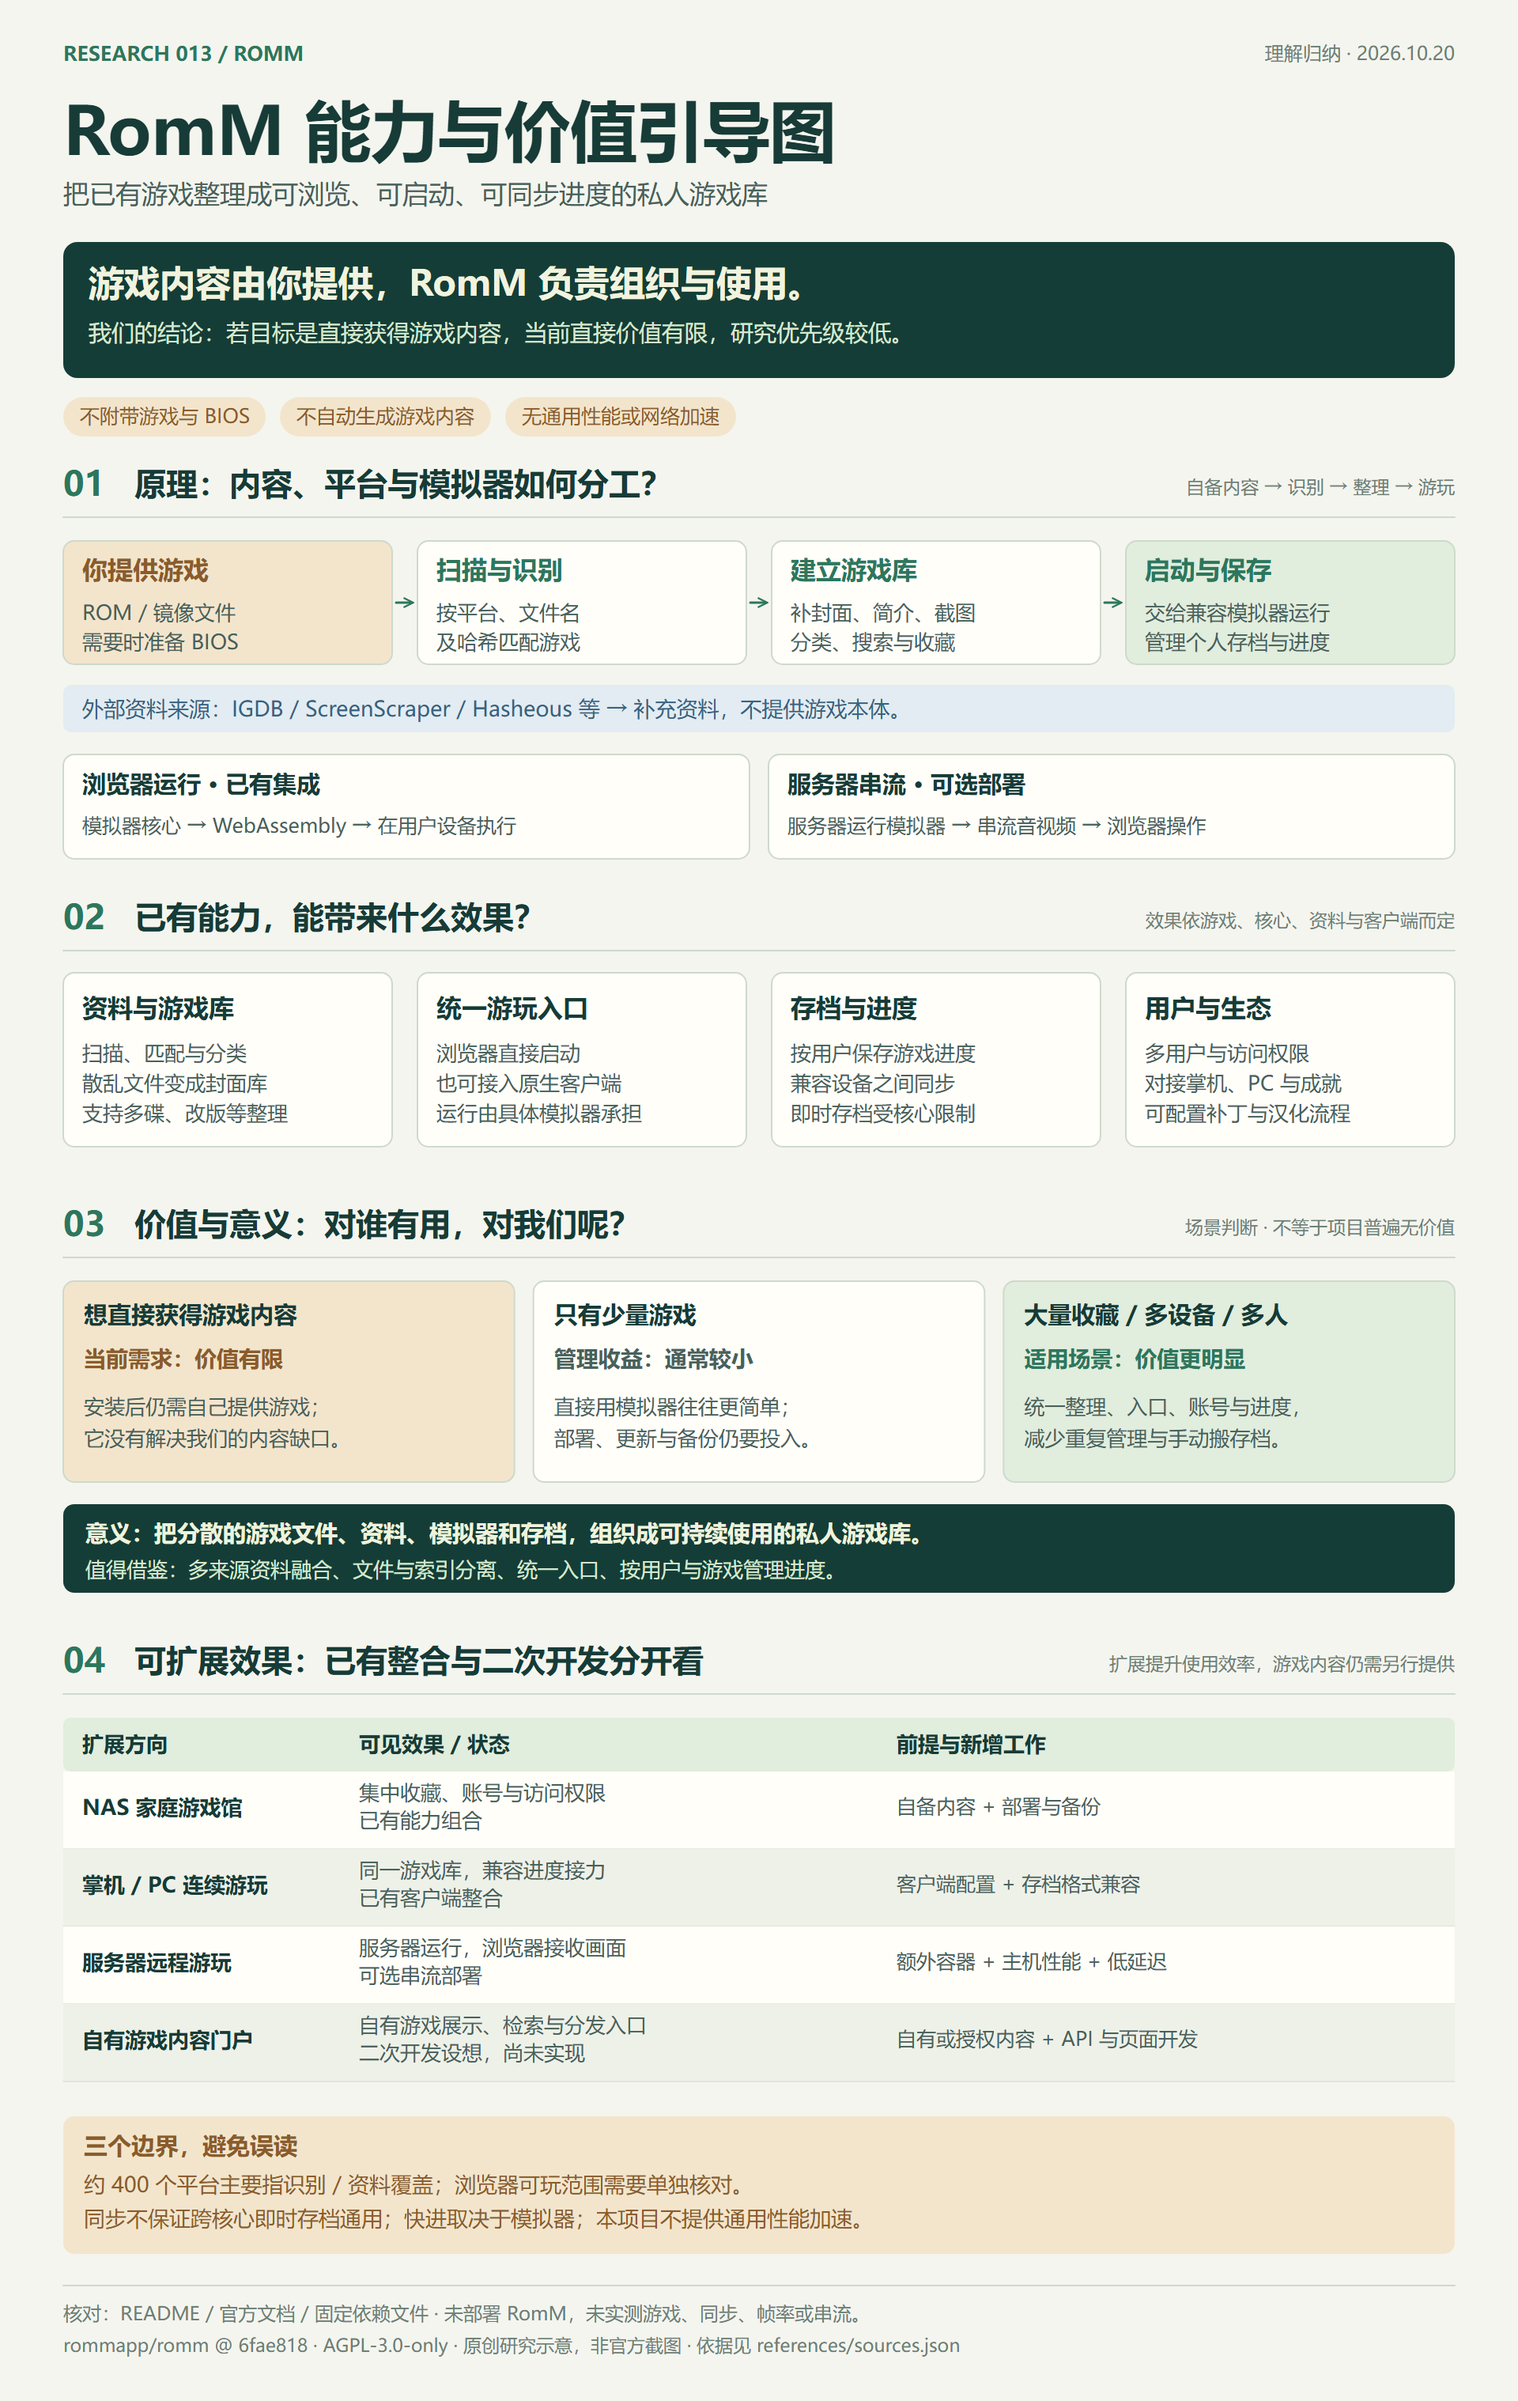
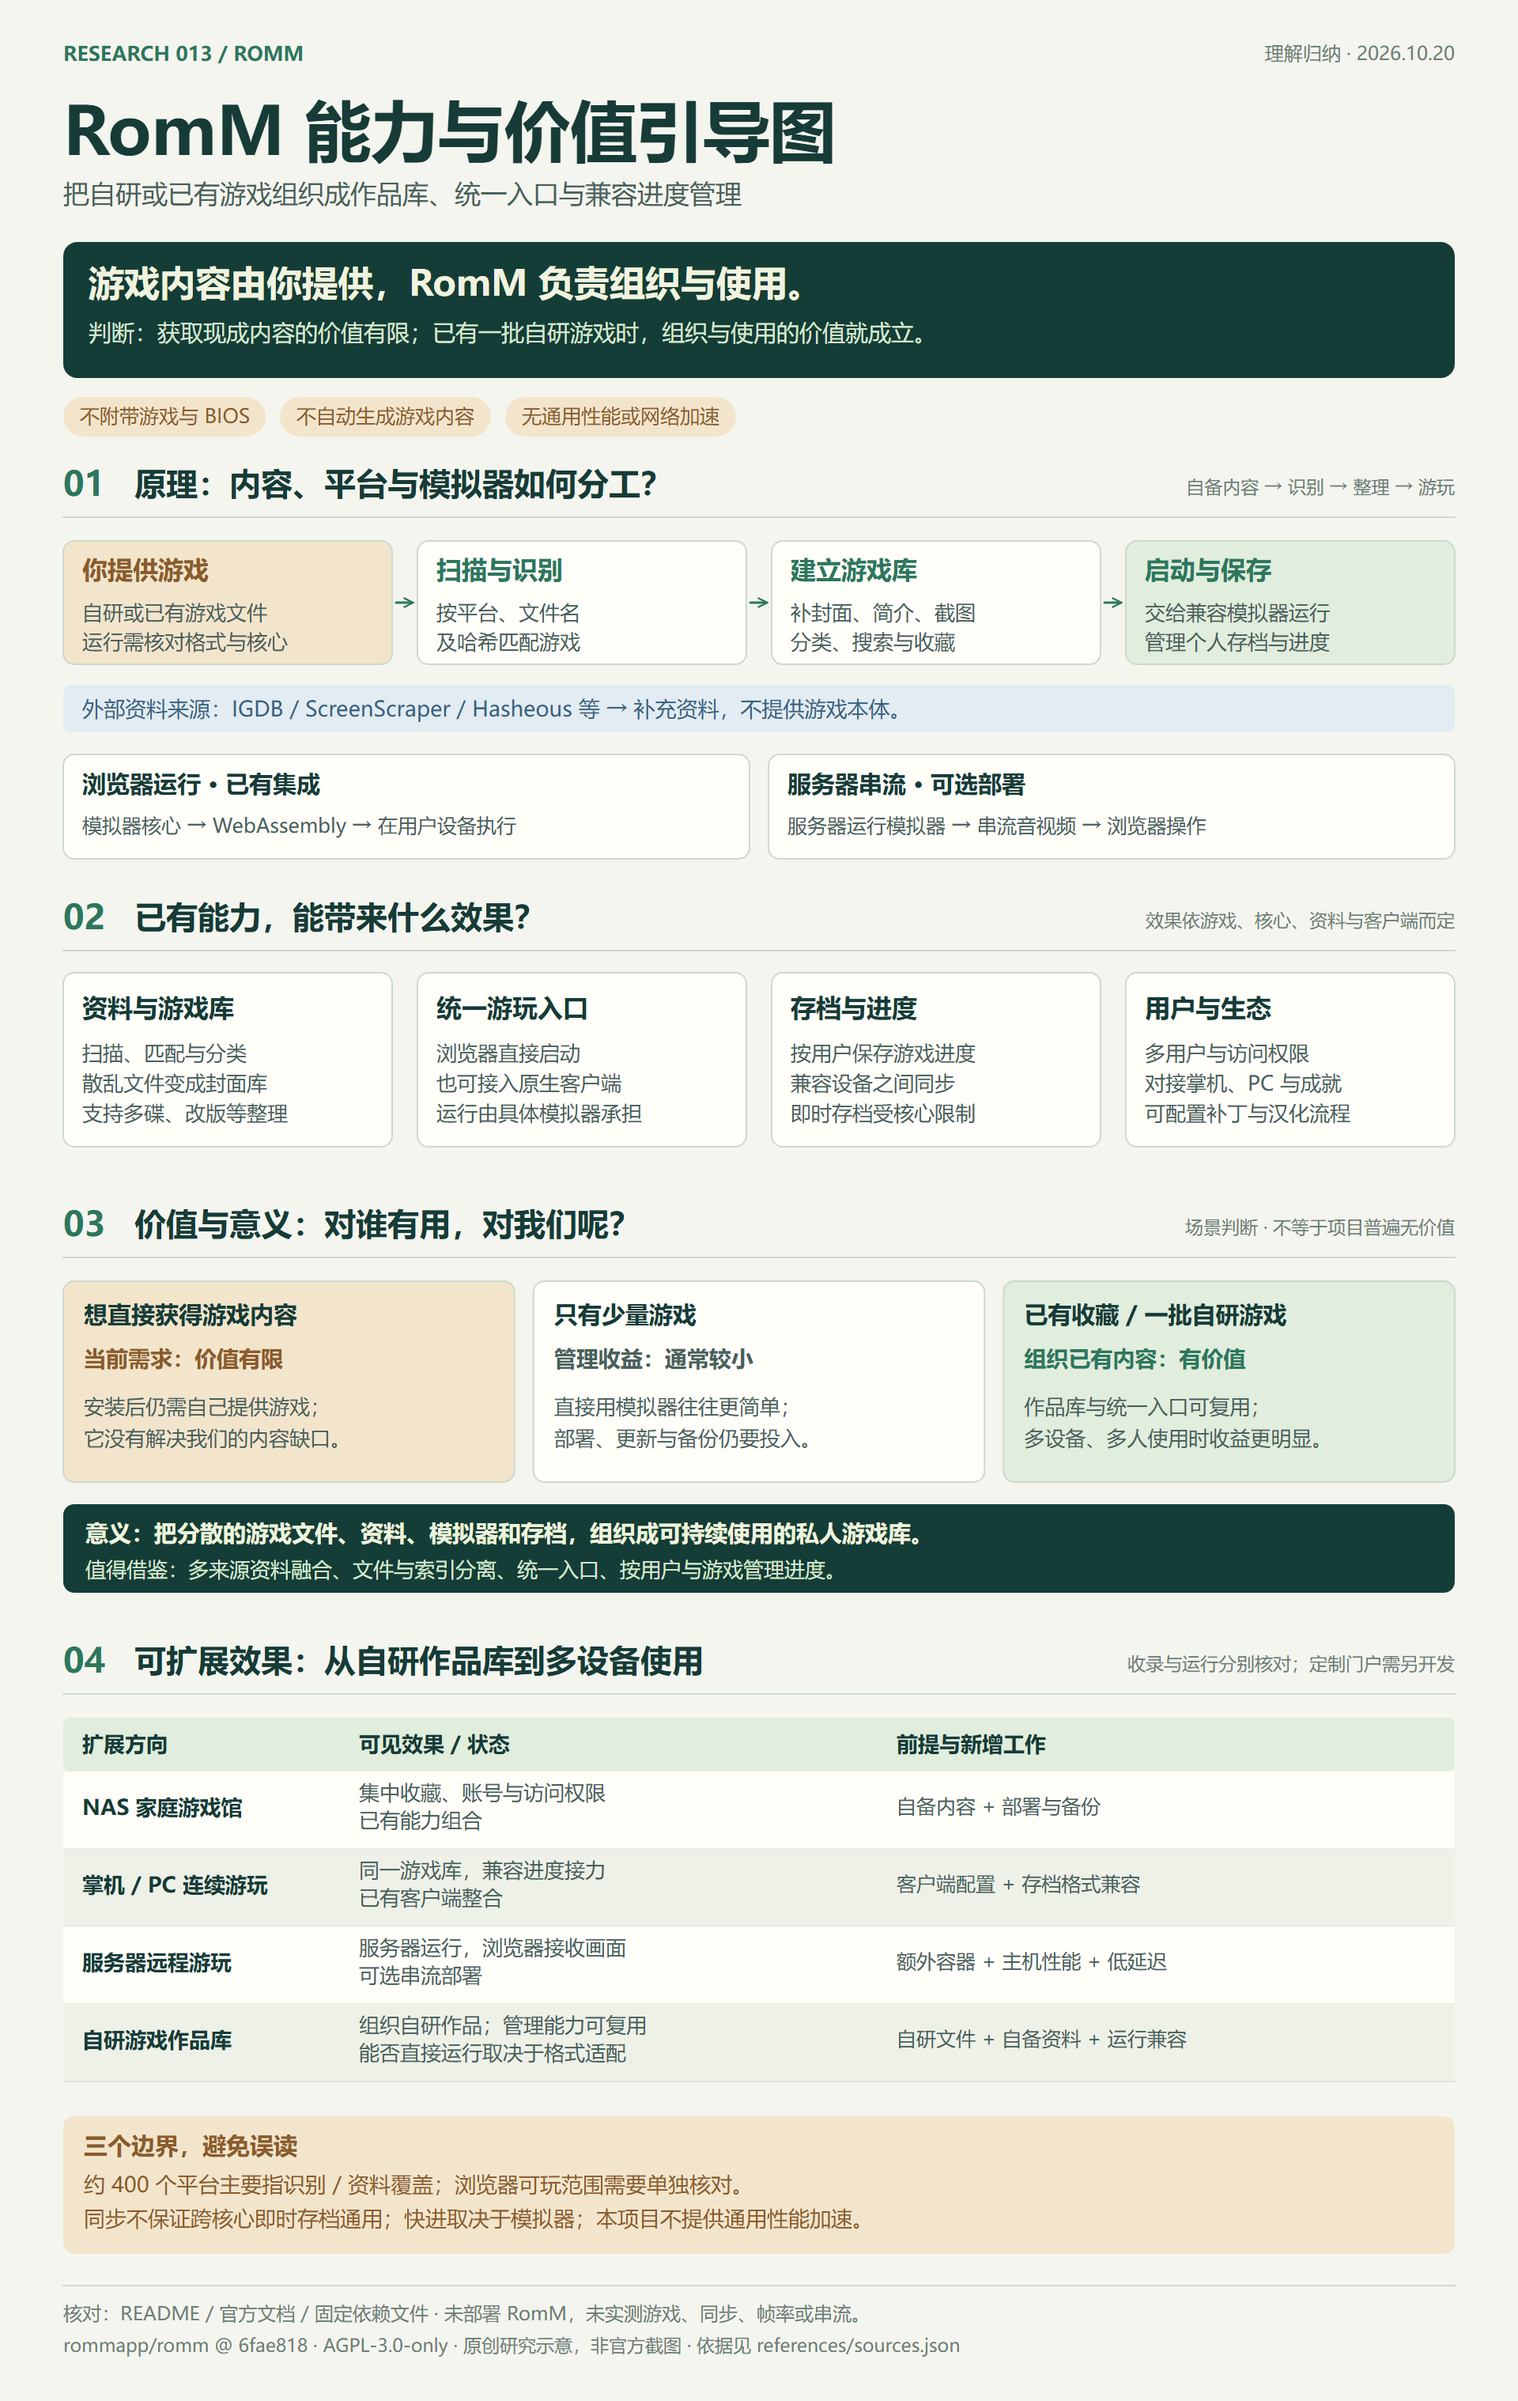
docs(romm): explain organizing self-developed games and runtime compatibility

diff --git a/projects/013-romm/tools/draw_guide.py b/projects/013-romm/tools/draw_guide.py
@@ -97,10 +97,10 @@ def draw():
     text(M, 52, "RESEARCH 013 / ROMM", 25, P["green"], True)
     text(W-M, 52, "理解归纳 · 2026.10.20", 24, P["muted"], anchor="end")
     text(M, 112, "RomM 能力与价值引导图", 84, P["ink"], True)
-    text(M, 224, "把已有游戏整理成可浏览、可启动、可同步进度的私人游戏库", 33)
+    text(M, 224, "把自研或已有游戏组织成作品库、统一入口与兼容进度管理", 33)
     rect(M, 306, CW, 172, P["dark"], radius=18)
     text(M+32, 329, "游戏内容由你提供，RomM 负责组织与使用。", 45, "#f1f3df", True)
-    para(M+32, 402, "我们的结论：若目标是直接获得游戏内容，当前直接价值有限，研究优先级较低。",
+    para(M+32, 402, "判断：获取现成内容的价值有限；已有一批自研游戏时，组织与使用的价值就成立。",
          CW-64, 29, 43, P["light"], bottom=470)
     x = M
     for label in ["不附带游戏与 BIOS", "不自动生成游戏内容", "无通用性能或网络加速"]:
@@ -109,7 +109,7 @@ def draw():
     heading(584, "01", "原理：内容、平台与模拟器如何分工？", "自备内容 → 识别 → 整理 → 游玩")
     node_w = (CW - 3 * 32) / 4
     nodes = [
-        ("你提供游戏", "ROM / 镜像文件\n需要时准备 BIOS", P["amberbg"], P["amber"]),
+        ("你提供游戏", "自研或已有游戏文件\n运行需核对格式与核心", P["amberbg"], P["amber"]),
         ("扫描与识别", "按平台、文件名\n及哈希匹配游戏", P["white"], P["green"]),
         ("建立游戏库", "补封面、简介、截图\n分类、搜索与收藏", P["white"], P["green"]),
         ("启动与保存", "交给兼容模拟器运行\n管理个人存档与进度", P["mint"], P["green"]),
@@ -150,7 +150,7 @@ def draw():
     values = [
         ("想直接获得游戏内容", "当前需求：价值有限", "安装后仍需自己提供游戏；\n它没有解决我们的内容缺口。", P["amberbg"], P["amber"]),
         ("只有少量游戏", "管理收益：通常较小", "直接用模拟器往往更简单；\n部署、更新与备份仍要投入。", P["white"], P["body"]),
-        ("大量收藏 / 多设备 / 多人", "适用场景：价值更明显", "统一整理、入口、账号与进度，\n减少重复管理与手动搬存档。", P["mint"], P["green"]),
+        ("已有收藏 / 一批自研游戏", "组织已有内容：有价值", "作品库与统一入口可复用；\n多设备、多人使用时收益更明显。", P["mint"], P["green"]),
     ]
     for i, (title, verdict, body, fill, accent) in enumerate(values):
         x = M + i*(value_w+24)
@@ -162,7 +162,7 @@ def draw():
     text(M+28, 1920, "意义：把分散的游戏文件、资料、模拟器和存档，组织成可持续使用的私人游戏库。", 29, "#eef3dd", True)
     text(M+28, 1968, "值得借鉴：多来源资料融合、文件与索引分离、统一入口、按用户与游戏管理进度。", 26, P["light"])
 
-    heading(2072, "04", "可扩展效果：已有整合与二次开发分开看", "扩展提升使用效率，游戏内容仍需另行提供")
+    heading(2072, "04", "可扩展效果：从自研作品库到多设备使用", "收录与运行分别核对；定制门户需另开发")
     x0, x1, x2, end = M, 430, 1110, W-M
     rect(M, 2172, CW, 68, P["mint"], radius=9)
     for x, label in [(x0+24, "扩展方向"), (x1+24, "可见效果 / 状态"), (x2+24, "前提与新增工作")]:
@@ -171,7 +171,7 @@ def draw():
         ("NAS 家庭游戏馆", "集中收藏、账号与访问权限\n已有能力组合", "自备内容 + 部署与备份"),
         ("掌机 / PC 连续游玩", "同一游戏库，兼容进度接力\n已有客户端整合", "客户端配置 + 存档格式兼容"),
         ("服务器远程游玩", "服务器运行，浏览器接收画面\n可选串流部署", "额外容器 + 主机性能 + 低延迟"),
-        ("自有游戏内容门户", "自有游戏展示、检索与分发入口\n二次开发设想，尚未实现", "自有或授权内容 + API 与页面开发"),
+        ("自研游戏作品库", "组织自研作品；管理能力可复用\n能否直接运行取决于格式适配", "自研文件 + 自备资料 + 运行兼容"),
     ]
     for i, row in enumerate(rows):
         y = 2240 + i * 98
@@ -197,7 +197,7 @@ def main():
     draw()
     svg = f'''<svg xmlns="http://www.w3.org/2000/svg" width="{W}" height="{H}" viewBox="0 0 {W} {H}" role="img" aria-labelledby="title desc">
 <title id="title">RomM 能力与价值引导图</title>
-<desc id="desc">RomM 不附带游戏；整合已有游戏的识别、资料、启动、模拟器游玩和兼容存档同步。针对直接获取游戏内容的需求，当前直接价值有限；大量收藏、多设备和多人使用时更有价值。图中区分现有整合、可选部署与二次开发设想，并列出边界。</desc>
+<desc id="desc">RomM 不附带游戏；整合已有游戏的识别、资料、启动、模拟器游玩和兼容存档同步。我们开发一批游戏时，可以复用它组织作品；直接运行取决于格式和适配。针对直接获取游戏内容的需求价值有限，大量收藏、多设备和多人使用时有整合价值。图中区分现有管理、可选部署和运行适配，并列出边界。</desc>
 <defs><marker id="arrow" viewBox="0 0 10 10" refX="8" refY="5" markerWidth="5" markerHeight="5" orient="auto"><path d="M1 1L9 5L1 9" fill="none" stroke="{P['green']}" stroke-width="1.5"/></marker></defs>
 <rect width="{W}" height="{H}" fill="{P['paper']}"/>
 ''' + "\n".join(ELEMENTS) + "</svg>"

diff --git a/projects/013-romm/tools/capture_sources.py b/projects/013-romm/tools/capture_sources.py
@@ -16,6 +16,7 @@ DOCS = [
     ("scanning", "administration/scanning-and-watcher/", "手动、定时与文件变动扫描"),
     ("architecture", "developers/architecture/", "前后端、数据库、任务、文件与模拟器的分工"),
     ("platforms", "platforms/supported-platforms/", "平台支持包含目录识别与资料覆盖；可玩范围另列"),
+    ("custom-platforms", "platforms/custom-platforms/", "可收录自定义平台；不自动获得资料覆盖，管理与可玩支持分开理解"),
     ("browser-play", "using/in-browser-play/emulatorjs/", "EmulatorJS、WebAssembly 与终端性能要求"),
     ("saves", "using/saves-and-states/", "存档同步与即时存档核心兼容性"),
     ("streaming", "using/emulator-streaming/", "可选的服务器模拟器与浏览器串流"),
@@ -67,8 +68,9 @@ def main():
         "interpretations": [
             "针对我们希望直接获得游戏内容的需求，当前直接价值有限、研究优先级较低。",
             "大量已有收藏、多设备或多人使用时，管理和同步的整合价值更明显。",
+            "我们开发一批游戏时，可复用作品收录、资料与访问管理；直接运行和存档同步需按发布格式、模拟器或客户端验证。",
             "价值判断属于本研究的场景判断，不代表项目对所有人价值低。",
-            "自有内容门户是二次开发设想，不是已经交付的上游功能。",
+            "基础作品管理可评估复用现有能力；品牌专题与业务发布门户是二次开发设想。",
         ],
         "validation_scope": "官方文档与四份固定源码资料核对；未运行 RomM、游戏、模拟器、存档同步或串流。",
     }

diff --git a/projects/013-romm/notes.md b/projects/013-romm/notes.md
@@ -4,7 +4,7 @@
 
 本轮目标：把讨论中“有没有游戏、管理和运行分别是什么、有没有加速、对我们有多大价值”整理为一张可作为首页入口的引导图，并提供明确的摘要、依据和扩展条件。
 
-2026-10-20 核对上游 `master`，固定为 `6fae8185f81dd4897940e76045bc9834cfb798d1`。保存 README、LICENSE、Python 与前端依赖文件四份原文，SHA-256 见 [sources.json](references/sources.json)。另外核对官方 FAQ、元数据、扫描、架构、平台支持、浏览器运行、存档和串流八份文档。
+2026-10-20 核对上游 `master`，固定为 `6fae8185f81dd4897940e76045bc9834cfb798d1`。保存 README、LICENSE、Python 与前端依赖文件四份原文，SHA-256 见 [sources.json](references/sources.json)。另外核对官方 FAQ、元数据、扫描、架构、平台支持、自定义平台、浏览器运行、存档和串流九份文档。
 
 ## 理解如何收敛
 
@@ -15,16 +15,19 @@
 | 能运行吗？ | 通过集成或对接的模拟器运行；浏览器方式使用用户设备，可选串流方式使用服务器 |
 | 能加速吗？ | 不把通用性能、帧率提升或网络加速归为其核心能力；模拟器快进单独理解 |
 | 没内容是不是没价值？ | 对直接获取内容的目标价值有限；大量已有收藏、多设备或多人使用时，管理和同步的整合收益更明确 |
+| 我们开发了一批游戏，可以用它组织吗？ | 可以把自研游戏组织为作品库；发布格式兼容或完成适配后再接入游玩，未公开收录的作品需要自己维护资料 |
 | 对我们有什么意义？ | 当前不优先部署试玩，保留作多来源资料融合、用户进度和统一入口的工程参考 |
 
 “直接价值有限”是基于当前需求的判断，不从“没有游戏”推导为项目普遍无价值。RomM 仍可作为已有游戏收藏的管理和使用基础设施。
+
+补充理解：当我们自己生产内容时，RomM 的作品组织价值就成立了。它可以成为自研游戏的目录、资料库和统一入口；自制 ROM 是否能直接玩要核对核心，HTML5、Unity / Godot 导出的 PC 游戏或 EXE 等需评估托管、启动与运行适配。引擎名称不代表兼容格式，收录成功也不代表运行成功。基本管理复用与定制专题门户开发分别记录，避免把它们都归为必须从头开发，或都理解为现成可玩。
 
 ## 引导图设计
 
 - 原创 SVG 信息图，导出同内容 PNG，尺寸为 1920 × 3036。
 - 入口即说明“游戏由你提供”，随后给出有条件的价值判断。
 - 四个板块：内容与平台分工、已有能力及效果、场景价值与意义、扩展效果与投入。
-- 区分现有整合、可选部署、二次开发设想；没有把自有内容门户画成现成上游能力。
+- 区分现有整合、可选部署和格式适配；补充自研作品库的管理价值，定制专题门户仍属于二次开发设想。
 - 图中说明资料覆盖不等于可玩范围、存档兼容条件，以及未做运行实测。
 - 原始图稿与 PNG 由同一份 `tools/draw_guide.py` 生成；不调用图像模型，不使用上游截图或品牌素材。
 
